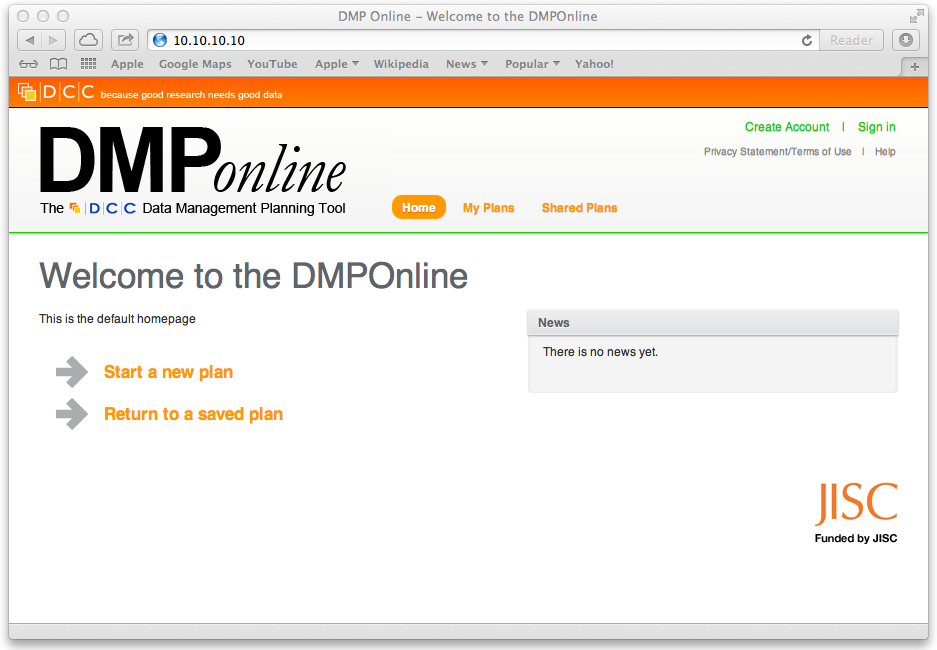
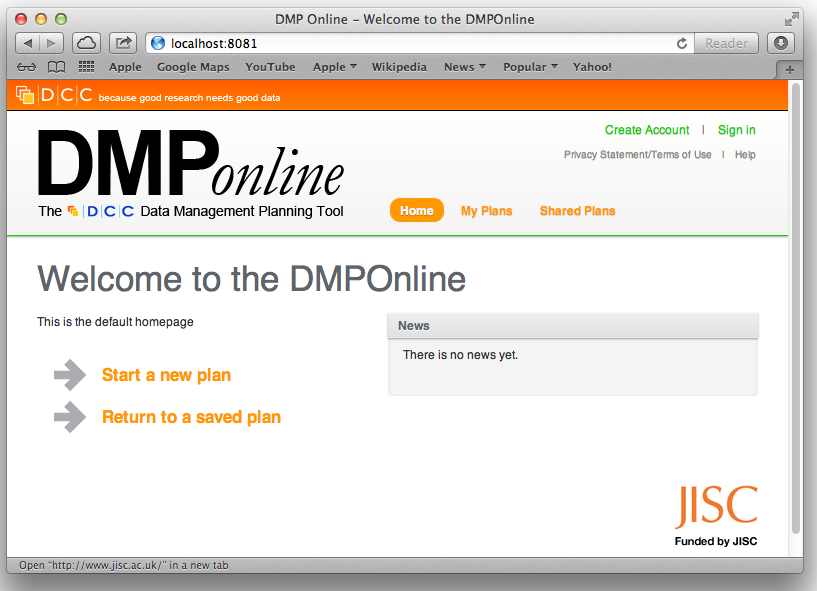
Documentation updates

Changed region(s): [[0.0, 0.0, 1.0, 1.0]]

diff --git a/README.md b/README.md
@@ -3,7 +3,7 @@ DMPOnline + Sword "Getting Started" Chef Repository
 
 Introduction
 ------------
-This Chef repository allows you to quickly build and provision an instance of DMPOnline + Sword on a virtual server, either running locally using Virtual Box or on the cloud (e.g. via OpenStack).
+This Chef repository allows you to quickly build and provision an instance of DMPOnline + Sword on a virtual server, either running locally using Virtual Box or on the cloud (e.g. via OpenStack, Rackspace or AWS).
 
 Requirements
 ------------
@@ -23,9 +23,10 @@ In addition you may also need:
 * [Vagrant](http://vagrantup.com), if deploying to a local virtual machine
 * A [Centos 6 base box](http://www.vagrantbox.es), if deploying to a local virtual machine with Vagrant and Virtual Box
 
+
 Deploying to a local Virtual Box with Vagrant and Chef Solo
 -----------------------------------------------------------
-1. First of all, make sure you have successfully installed on the prerequisite software: Ruby, Gem, Git, Chef Solo, Librarian Chef, Virtual Box and Vagrant. Its a good idea to reload open terminal windows, to ensure all the new paths are added to your environment.
+1. First of all, make sure you have successfully installed on the prerequisite software: *Ruby*, *Gem*, *Git*, *Chef Solo*, *Librarian Chef*, *Virtual Box* and *Vagrant* (see links above). If you have installed software, its a good idea to reload open terminal windows to ensure all the new paths are added to your environment.
 
 2. Clone this Chef repository onto your computer
 
@@ -38,7 +39,7 @@ Deploying to a local Virtual Box with Vagrant and Chef Solo
 		cd ~/projects/dmponline-chef-repo
 		librarian-chef install
 
-4. Review the Vagrantfile with your favourite text editor. Pay special attention to the base box used (e.g. `centos63_minimal` and its associated URL), and also the default IP address assigned to the virtual machine (e.g. `10.10.10.10`). Adjust these settings to suit your requirements and base box availability. See [www.vagrantbox.es](http://www.vagrantbox.es) for a list of base boxes. A minimal Centos 6.3 is recommended, but, with tweaking, the recipe should work with most versions of Linux.
+4. Review the Vagrantfile with your favourite text editor. Pay special attention to the base box used (e.g. `centos63_minimal` and its associated URL), and also to the IP port mappings assigned to the virtual machine (e.g. http://localhost:8080/ and http://localhost:8081/). Adjust these settings to suit your requirements and base box availability. See [www.vagrantbox.es](http://www.vagrantbox.es) for a list of base boxes. A minimal Centos 6.3 is recommended, but, with tweaking, the recipe should work with most versions of Linux.
 
 		vi Vagrantfile
 
@@ -46,22 +47,62 @@ Deploying to a local Virtual Box with Vagrant and Chef Solo
 
 		vagrant up
 
-6. If the command completed successfully, open up a web browser and navigate to [http://10.10.10.10/](http://10.10.10.10) (or whatever you set the IP address of the virtual box to in the Vagrantfile). If everything worked, you should see the DMPOnline welcome page!
+6. If the command completed successfully, open up a web browser and navigate to [http://localhost:8081/](http://localhost:8081) (or whatever you set for the IP address/port mapping in the Vagrantfile). If everything worked, you should see the DMPOnline welcome page!
 
-![DMPOnline screen shot](https://raw.github.com/CottageLabs/dmponline-chef-repo/master/images/dmponline.png "DMPOnline screen shot")
+ ![DMPOnline screen shot](https://raw.github.com/CottageLabs/dmponline-chef-repo/master/images/dmponline.png "DMPOnline screen shot")
+
+ You should also see Simple Sword Server running on the other address mapped in the Vagrantfile, [http://localhost:8080/](http://localhost:8080) (NB. Simple Sword Server assumes it will be running at http://localhost:8080/)
+
+ ![Simple Sword Server screen shot](https://raw.github.com/CottageLabs/dmponline-chef-repo/master/images/simple-sword-server.png "Simple Sword Server screen shot")
 
 
-Using this repo
----------------
+Deploying to OpenStack using Hosted Chef
+----------------------------------------
+1. First of all, make sure you have successfully installed on the prerequisite software: *Ruby*, *Gem*, *Git*, *Chef Client* and *Librarian Chef* (see links above). If you have installed software, its a good idea to reload open terminal windows to ensure all the new paths are added to your environment. You will also need an OpsCode account to use [Hosted Chef](http://www.opscode.com/hosted-chef/) (a free trial account should be sufficient) and access to [OpenStack](http://www.openstack.org) where you can build virtual machines.
 
-This repository uses [Librarian Chef](https://github.com/applicationsonline/librarian) to manage cookbook dependencies.
+2. Configure your Chef's knife.rb file with your keys so that it can access your Hosted Chef organisation and your Openstack account
 
-To load the cookbooks onto your Chef Server (assuming you've already set up your `knife.rb` and client keys):
+		#An example knife.rb - update your file for your environment, organisation name and Hosted Chef keys
+		current_dir = File.dirname(__FILE__)
+		log_level                :info
+		log_location             STDOUT
+		node_name                "martynw"
+		client_key               "#{current_dir}/martynw.pem"
+		validation_client_name   "organisationname-validator"
+		validation_key           "#{current_dir}/organisationname-validator.pem"
+		chef_server_url          "https://api.opscode.com/organizations/organisationname"
+		cache_type               'BasicFile'
+		cache_options( :path => "#{ENV['HOME']}/.chef/checksums" )
+		cookbook_path            ["#{current_dir}/../chef/cookbooks"]
+		# ADD YOUR OPENSTACK KEY REFERENCES HERE
+		knife[:openstack_username] = "Your OpenStack Dashboard username"
+		knife[:openstack_password] = "Your OpenStack Dashboard password"
+		knife[:openstack_auth_url] = "http://cloud.mycompany.com:5000/v2.0/tokens"
 
-	# Install librarian chef in your environment
-    bundle install
-    # Download the cookbook dependencies
-    librarian-chef install
-    # Upload them to the server
-    knife cookbook upload --all
+ Verify that your knife.rb file is correctly configured for Hosted Chef by running:
+
+		knife cookbook list
+
+3. Clone this Chef repository onto your computer
+
+		mkdir ~/projects
+		cd ~/projects
+		git clone https://github.com/CottageLabs/dmponline-chef-repo.git dmponline-chef-repo
+
+4. Install the cookbooks with Librarian Chef
+
+		cd ~/projects/dmponline-chef-repo
+		librarian-chef install
+
+5. Upload the cookbooks to your Hosted Chef
+
+		knife cookbook upload --all
+
+6. Generate an SSH key-pair on the OpenStack dashboard and then bootstrap a new instance on OpenStack
+
+		knife openstack server create -S KEYPAIR -N TESTNODE -f 1 -I 52 -d centos5-gems
+
+7. Check that the instance has loaded
+
+		knife openstack server list
 
